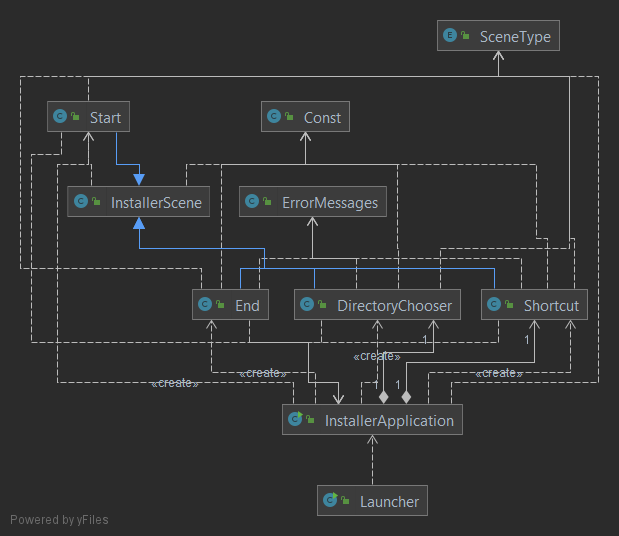
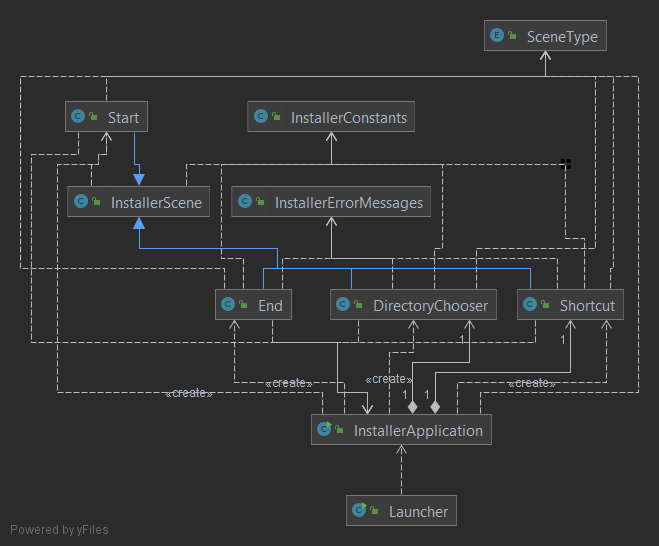
Updated class diagrams
Updated the pictures

diff --git a/docs/journals/alain/2021-05-27.md b/docs/journals/alain/2021-05-27.md
@@ -2,10 +2,20 @@
 ## Tagesziele
 * Dieses Journal schreiben
 * Daily Scrum
+* Uninstaller Bug fixen
+* Demo aufnehmen
+* Präsentation üben
+* Dokumentation ergänzen
 ## Erreichte Tagesziele
 * Dieses Journal schreiben
 * Daily Scrum
+* Uninstaller Bug fixen
+* Demo aufnehmen
+* Präsentation üben
+* Dokumentation ergänzen
 ## Noch offen
 * \-
 ## Reflexion
-*
+* Es wurde ein Bug beim Uninstaller gefixt, sodass jetzt alle Ordner gelöscht werden können
+* Zudem wurden noch einige Klassen umbenannt und ebenfalls die Klassenbeschreibungen geändert und ergänzt
+* Es wurden ebenfalls die Demos aufgenommen und in der Präsentation ergänzt
